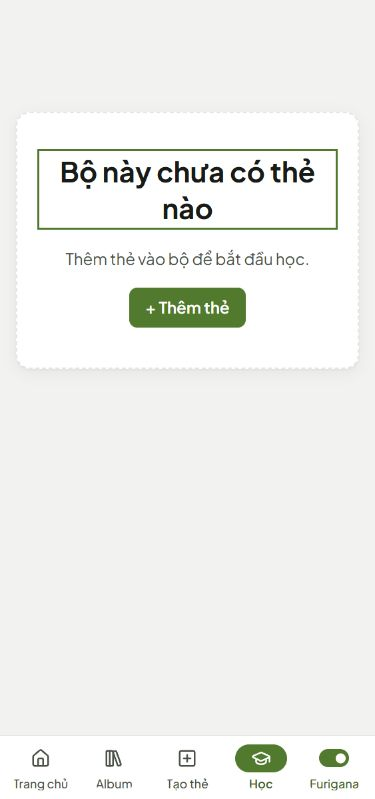
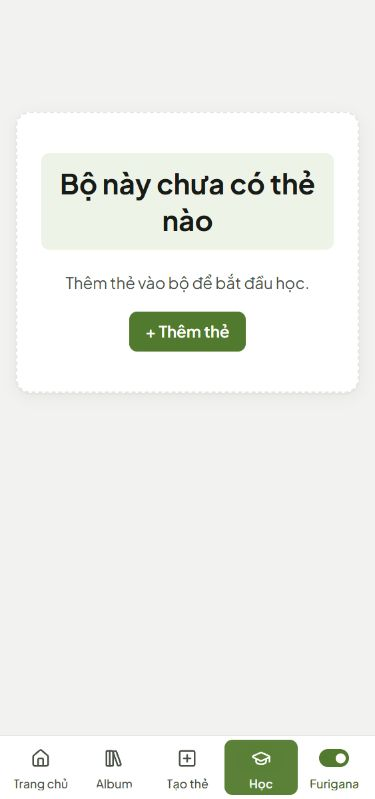
học: nhấn tiêu đề bộ trống bằng chữ đậm và nền nhẹ

diff --git a/pages/study/study.css b/pages/study/study.css
@@ -470,3 +470,15 @@
   .study-ratings { gap: var(--space-2); }
   .study-ratings .btn { min-height: 48px; }
 }
+
+#empty-title {
+  padding: var(--space-3) var(--space-4);
+  border-radius: var(--radius-sm);
+  background: var(--primary-soft);
+  color: var(--text);
+  font-weight: 700;
+}
+
+#empty-title:focus-visible {
+  outline: none;
+}
